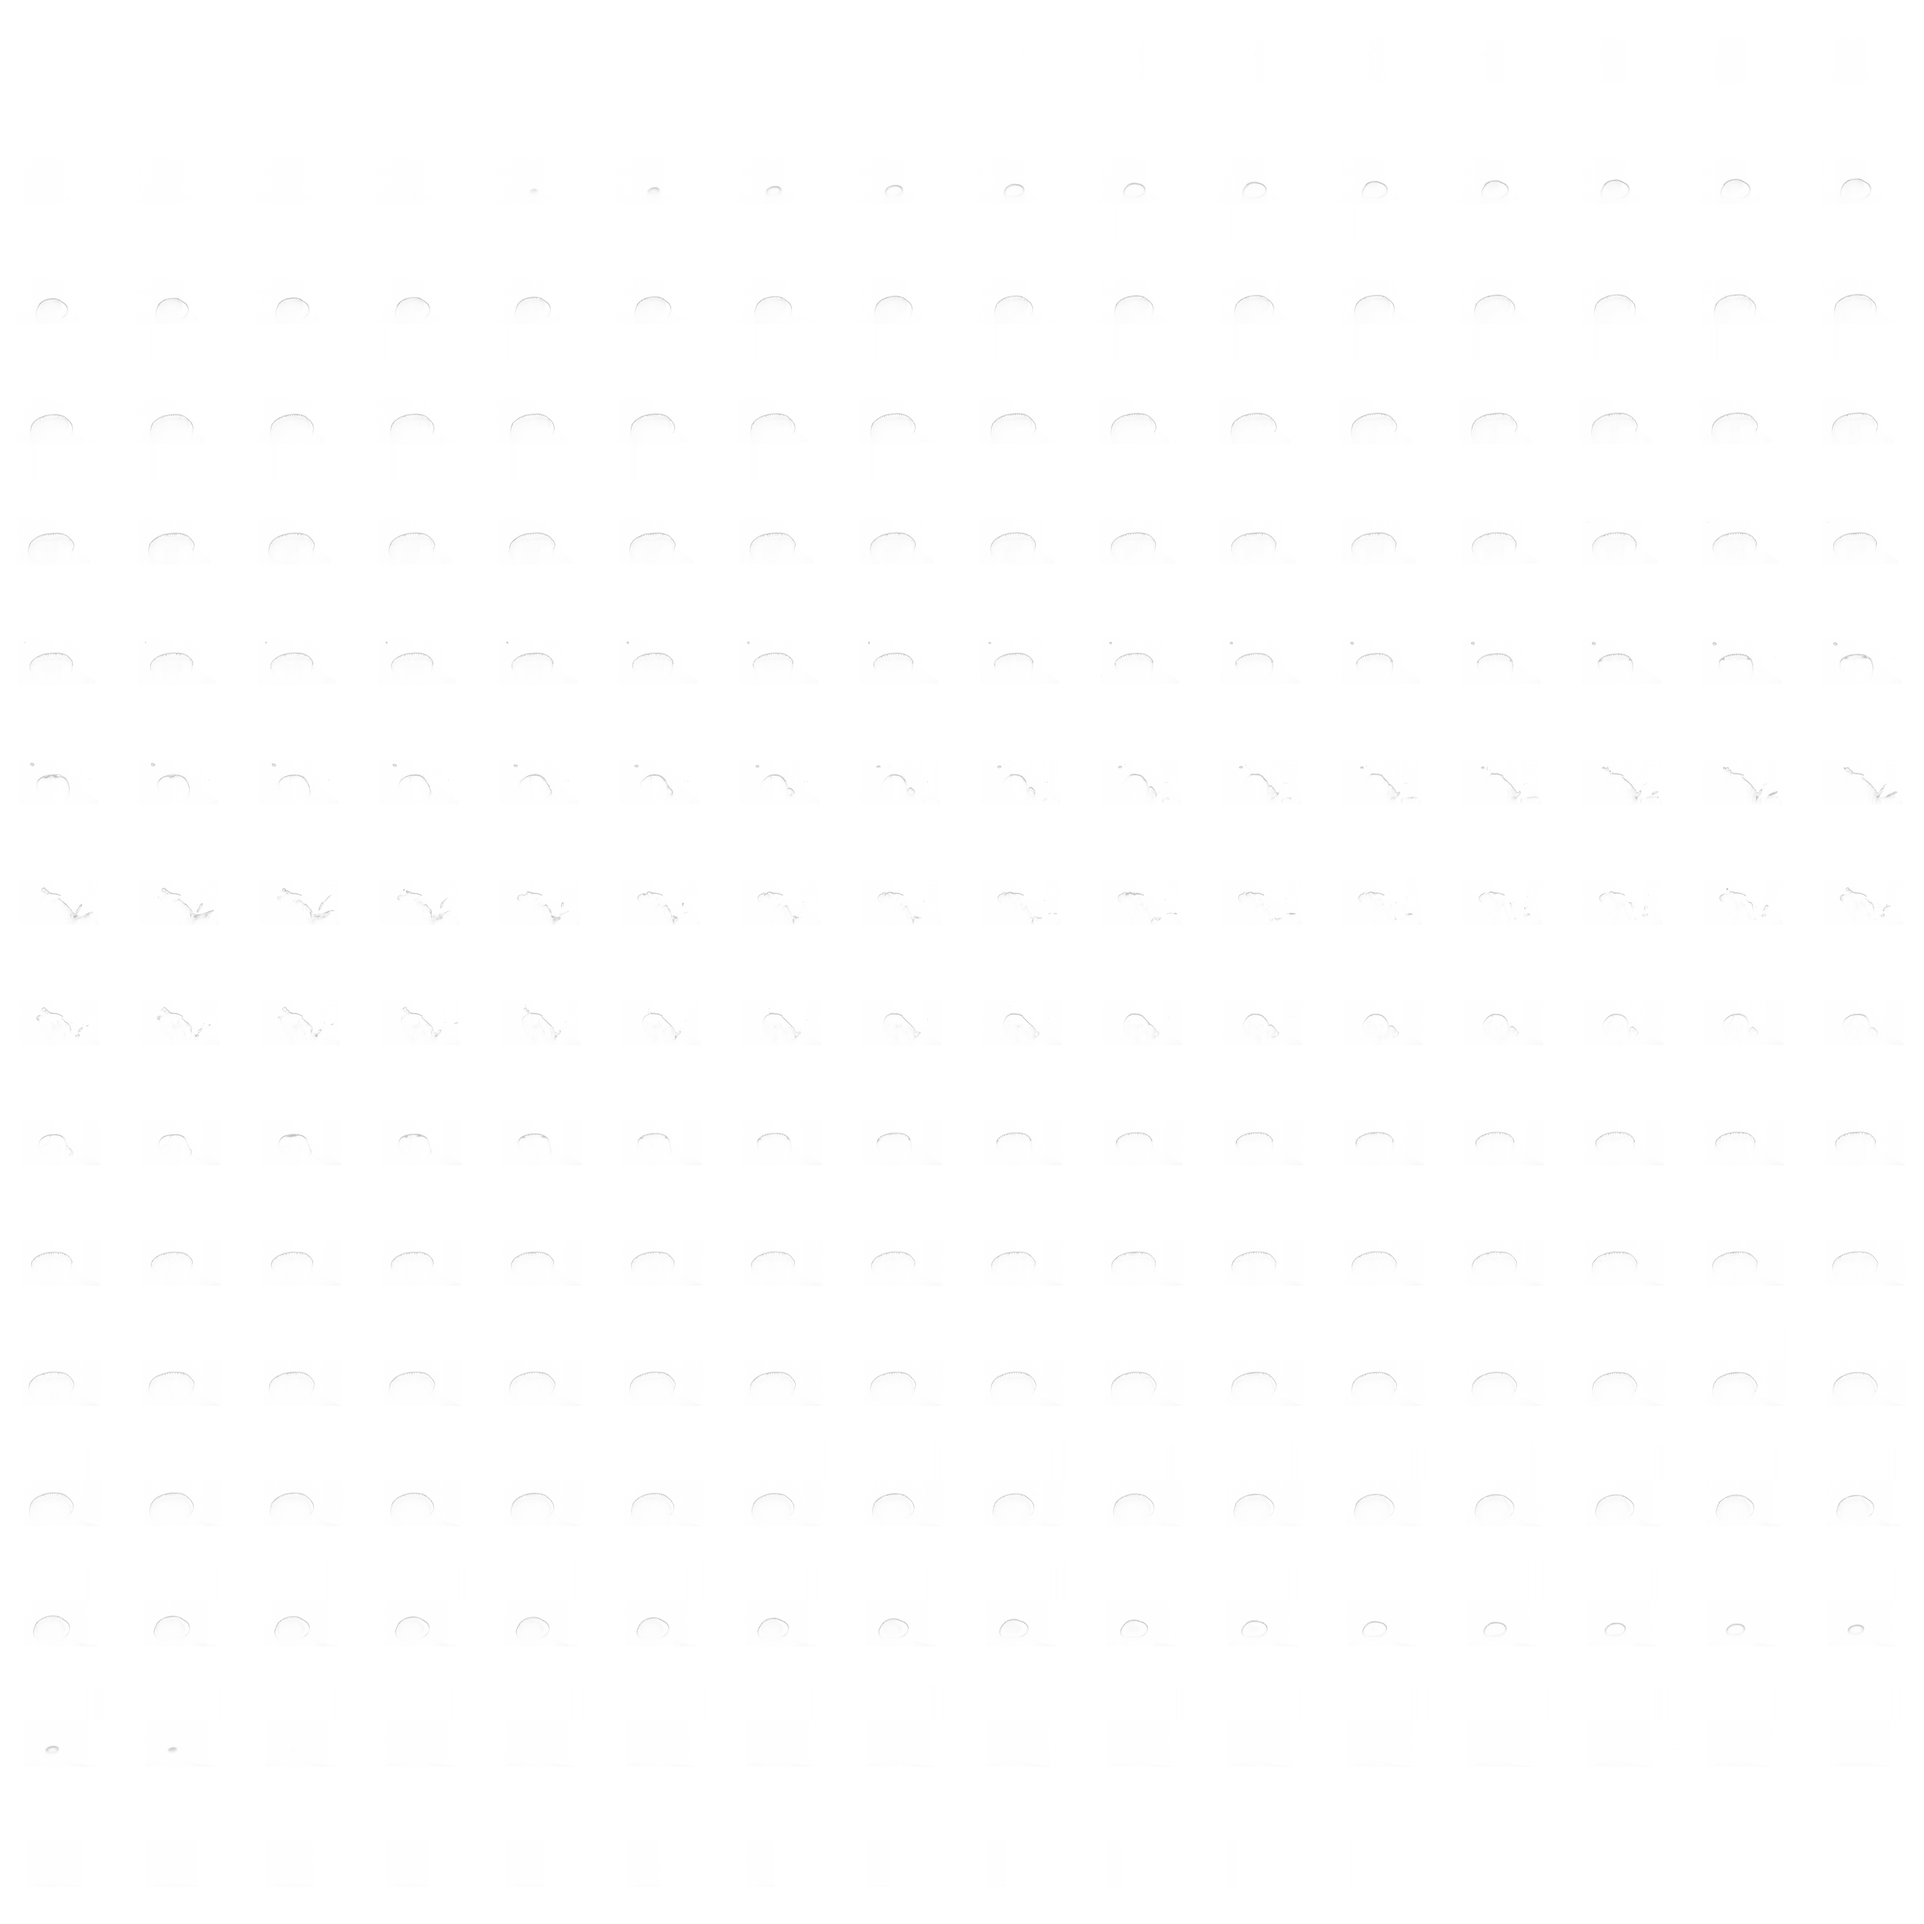
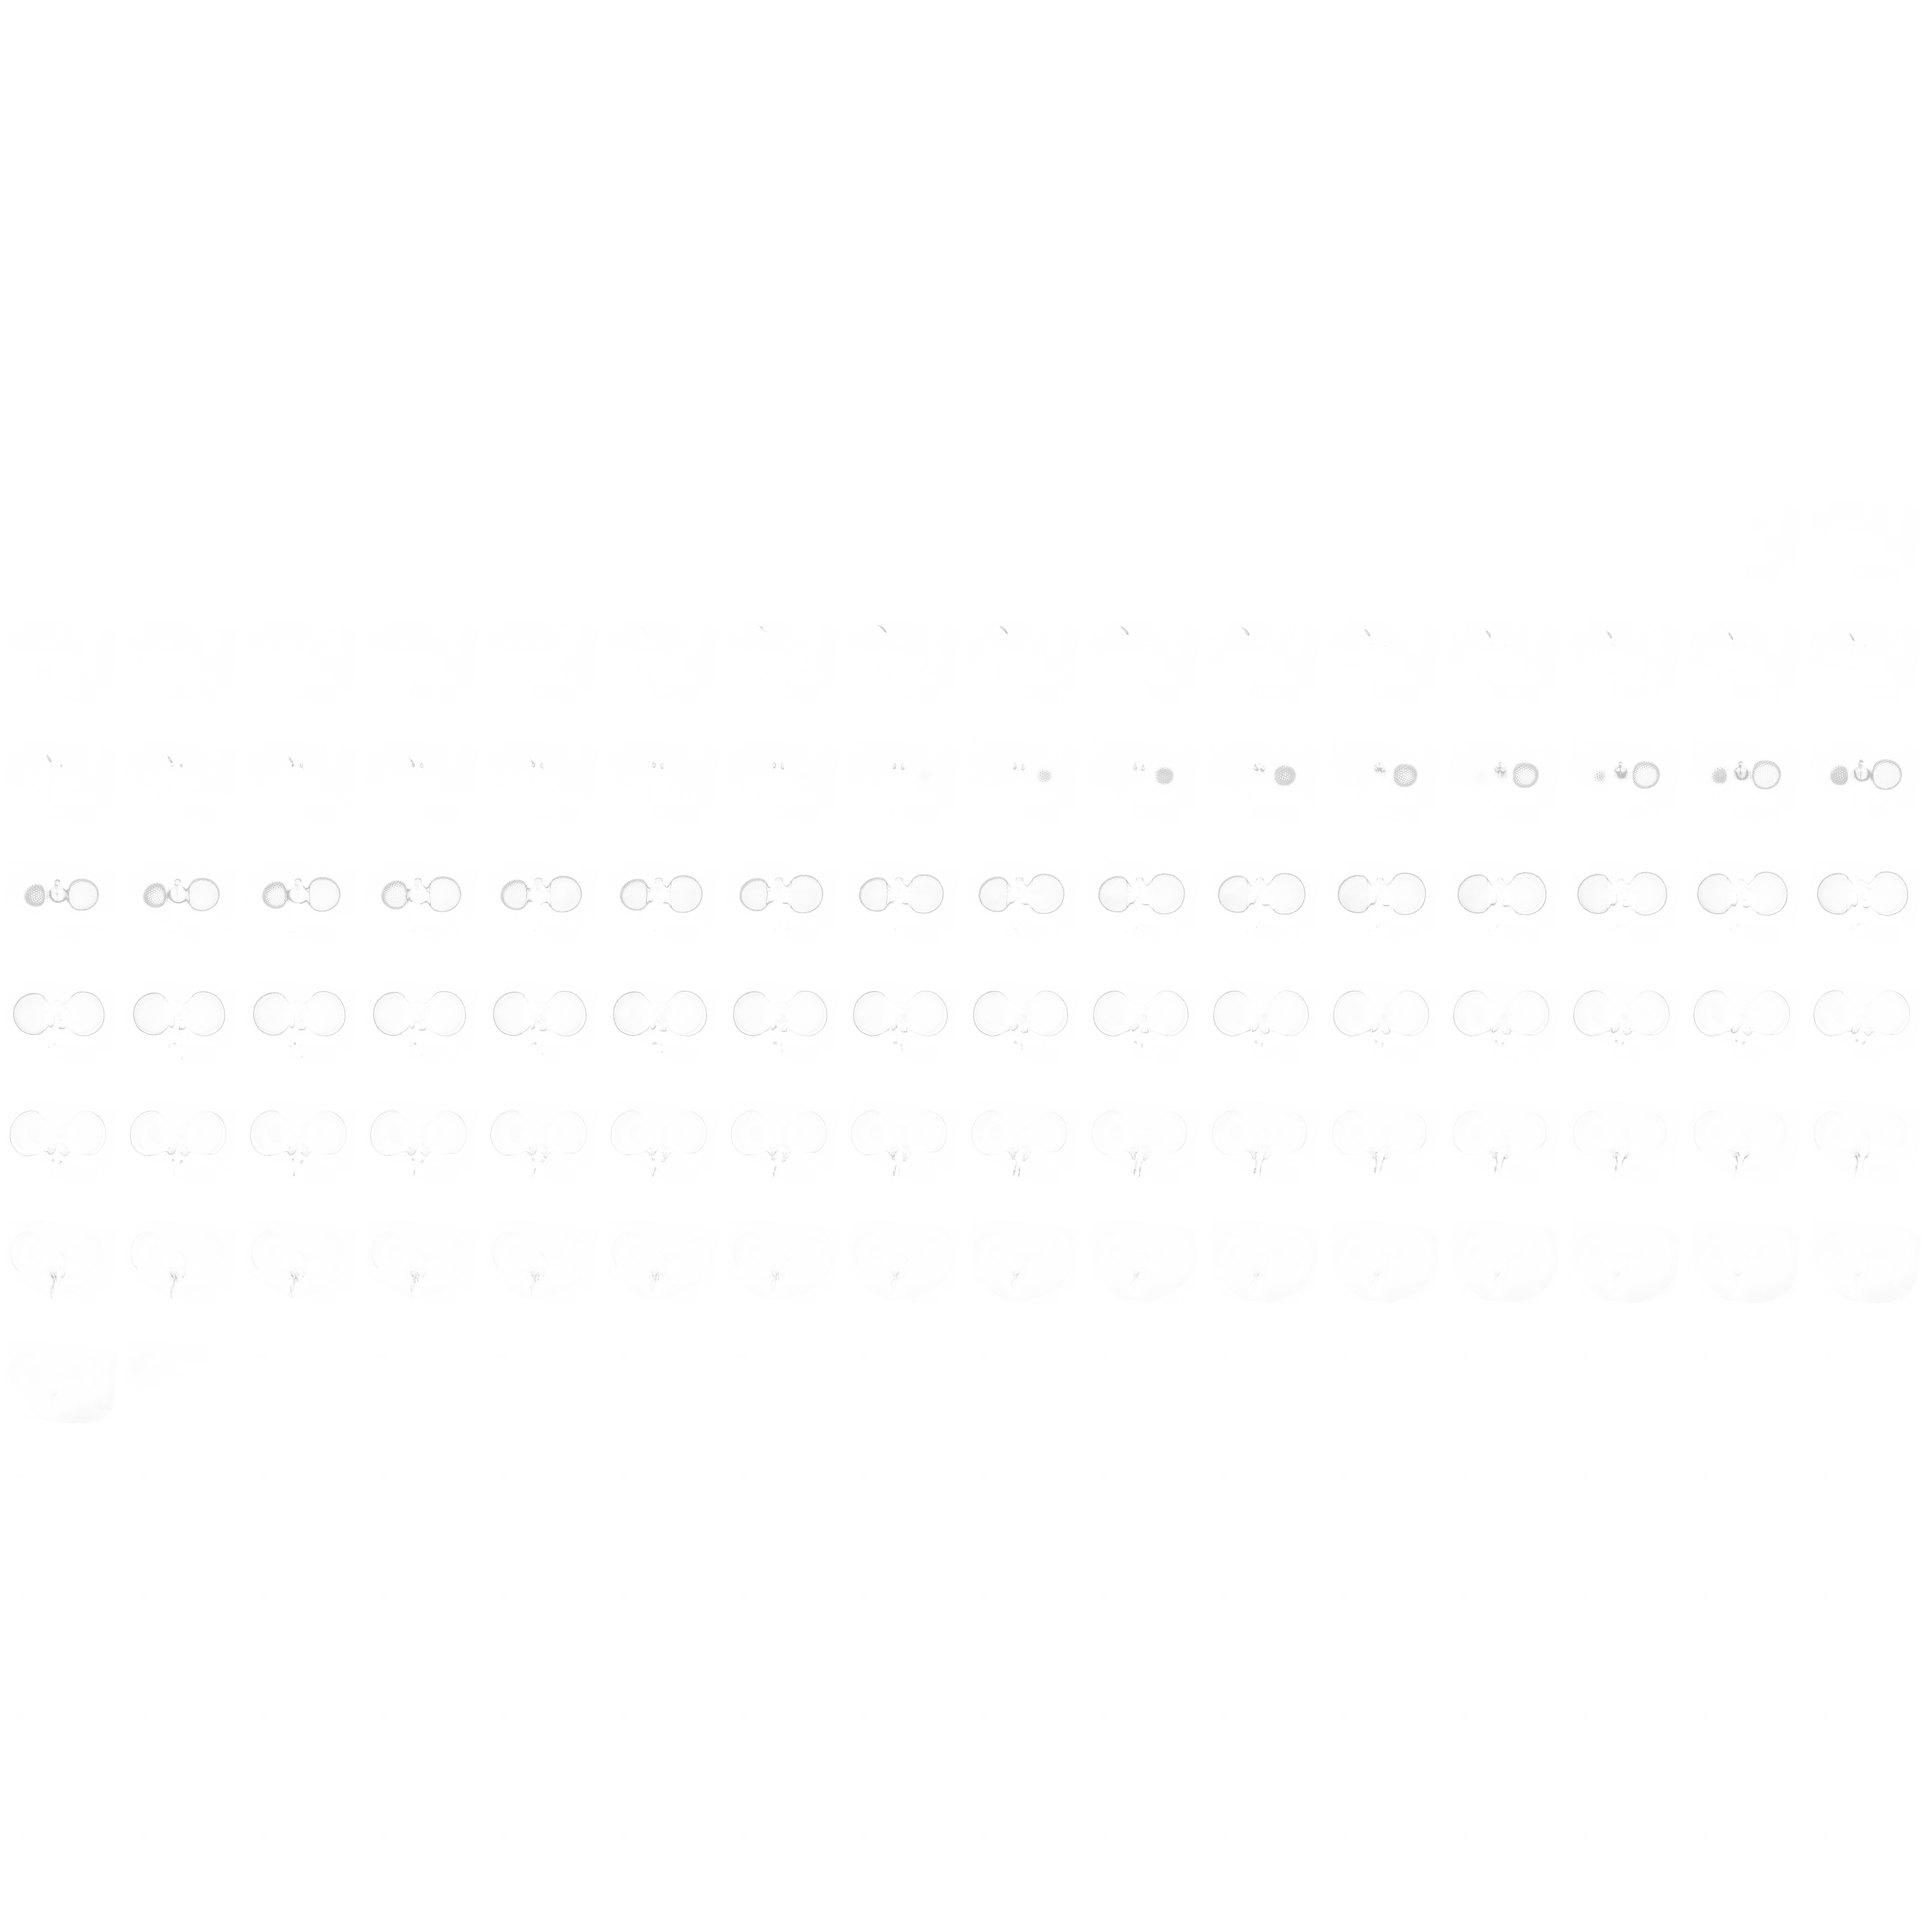
changing the orientationa and color

diff --git a/Index_eye.html b/Index_eye.html
@@ -244,8 +244,8 @@
 				guiControls = new function() {
 					this.model = 'ommatidia';
 					this.steps = 256.0;
-					this.alphaCorrection = 1.0;
-					this.color1 = "#00FA58";
+					this.alphaCorrection = 5.0;
+					this.color1 = "#6600fa";
 					this.stepPos1 = 0.1;
 					this.color2 = "#CC6600";
 					this.stepPos2 = 0.7;
@@ -336,7 +336,7 @@
 				var gui = new dat.GUI();
 				var modelSelected = gui.add(guiControls, 'model', [ 'ommatidia', 'foot', 'teapot' ] );
 				gui.add(guiControls, 'steps', 0.0, 512.0);
-				gui.add(guiControls, 'alphaCorrection', 0.01, 5.0).step(0.01);
+				gui.add(guiControls, 'alphaCorrection', 0.1, 10.0).step(0.1);
 
 				modelSelected.onChange(function(value) { materialSecondPass.uniforms.cubeTex.value =  cubeTextures[value]; } );
 
